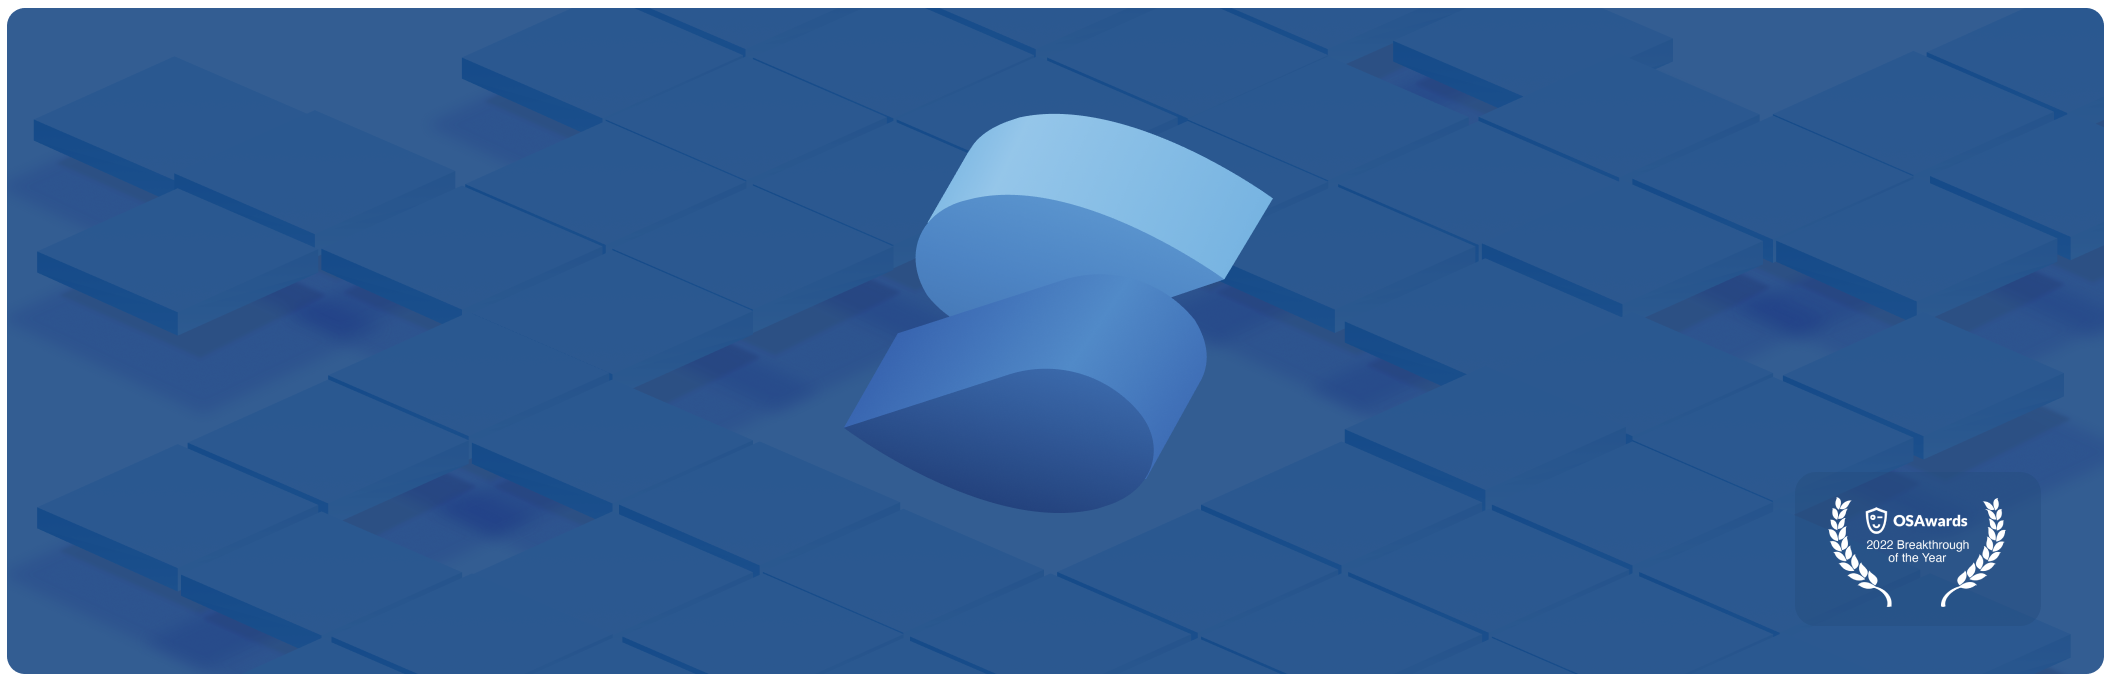
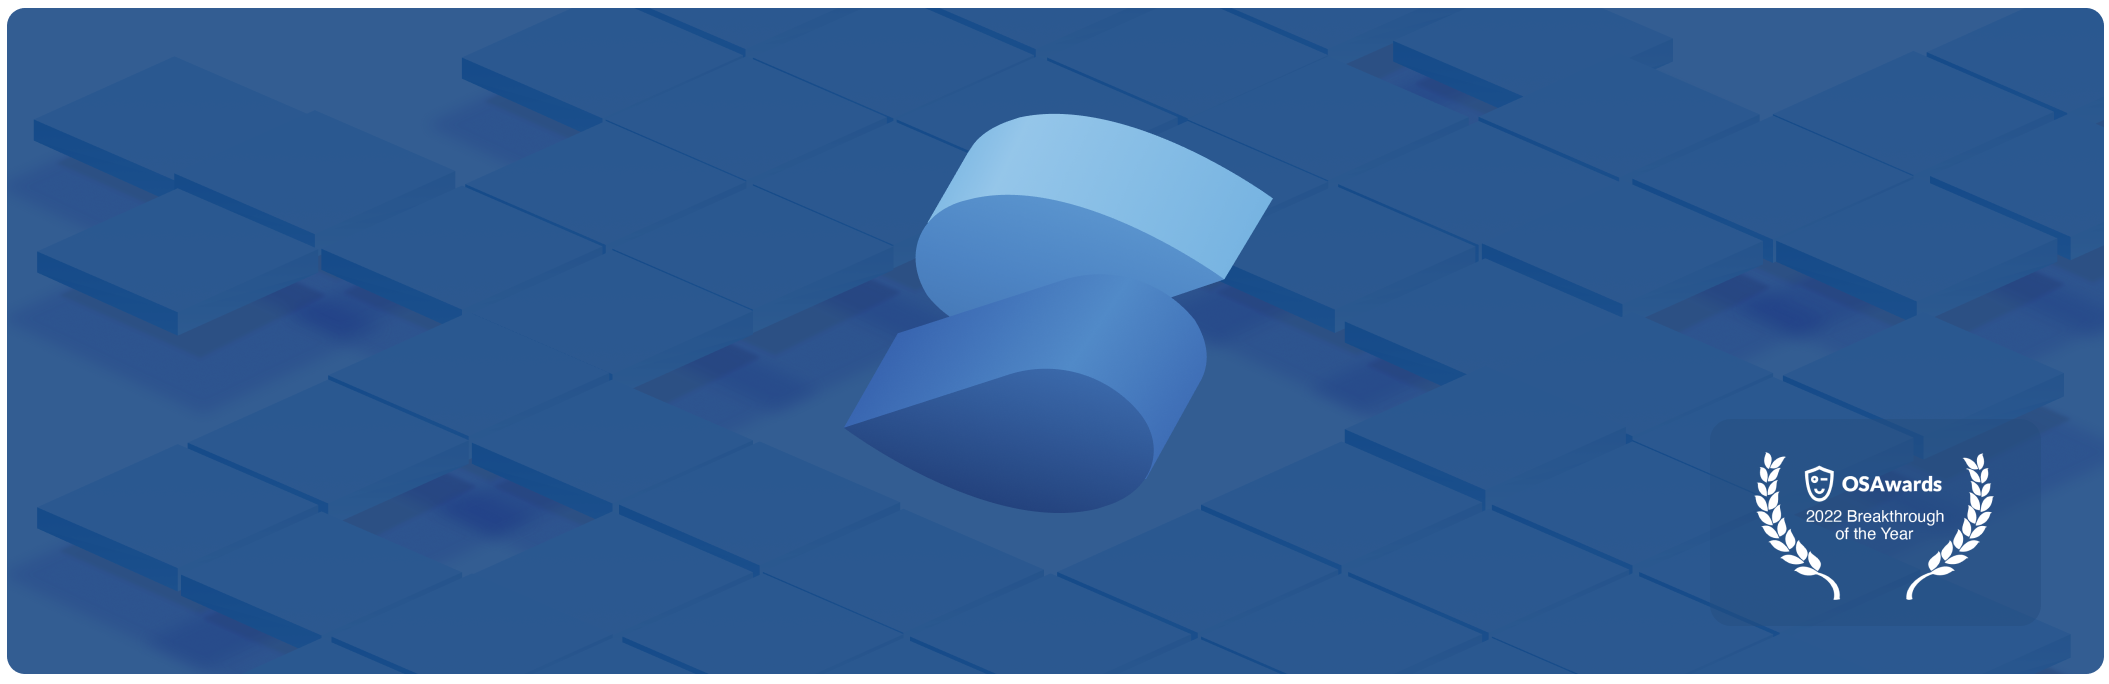
Award size

Changed region(s): [[0.8321, 0.6754, 0.9554, 0.8904]]

diff --git a/profile/README.md b/profile/README.md
@@ -3,7 +3,7 @@
 <p align="center">
   <img src="https://raw.githubusercontent.com/solidjs/.github/main/assets/banner-minimal.png" alt="Solid logo">
   <br/><br/>
-  **Solid** is a simple and performant reactive library &mdash;
+  <b>Solid</b> is a simple and performant reactive library &mdash;
   <br/>
   build performant, powerful and scalable user interfaces.
   <br/><br/>
